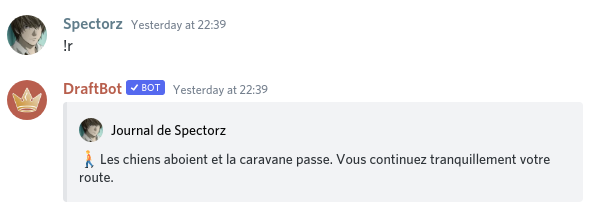
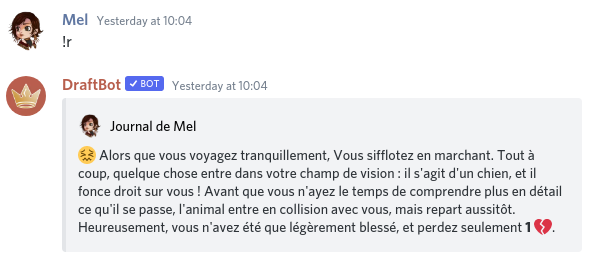
GitBook: [fr] 21 pages and 2 assets modified

Changed region(s): [[0.0, 0.028, 0.9648, 0.8972]]

diff --git a/notions-avancees/mini-evenements.md b/notions-avancees/mini-evenements.md
@@ -78,5 +78,19 @@ Le joueur découvre un équipement aléatoire. Il n'est pas possible d'obtenir d
 
 Ce mini-évent affiche simplement une phrase d'encouragement pour le joueur.
 
-![Un exemple du mini-&#xE9;v&#xE8;nement &quot;Rien ne se passe&quot;](../.gitbook/assets/image%20%2860%29.png)
+![Un exemple du mini-&#xE9;v&#xE8;nement &quot;Rien ne se passe&quot;](../.gitbook/assets/image%20%2861%29.png)
+
+### ![:confounded:](https://discord.com/assets/e6fe72eb79ef6258554b1385259df5d1.svg) Petit malheur :
+
+**Taux d'apparition :** 10% 
+
+Parfois, tout ne se passe pas comme prévu. Certain mini-évènements amènent à de petits malus.
+
+| Malus | Effet |
+| :--- | :--- |
+| Perte de vie |  1 à 5 points de vie perdus |
+| Perte d'argent | 10 à 50 d'argent gagné |
+| Perte de temps aléatoire | 1 à 24 minutes perdues |
+
+![Un exemple de petit malheur](../.gitbook/assets/image%20%2860%29.png)
 
